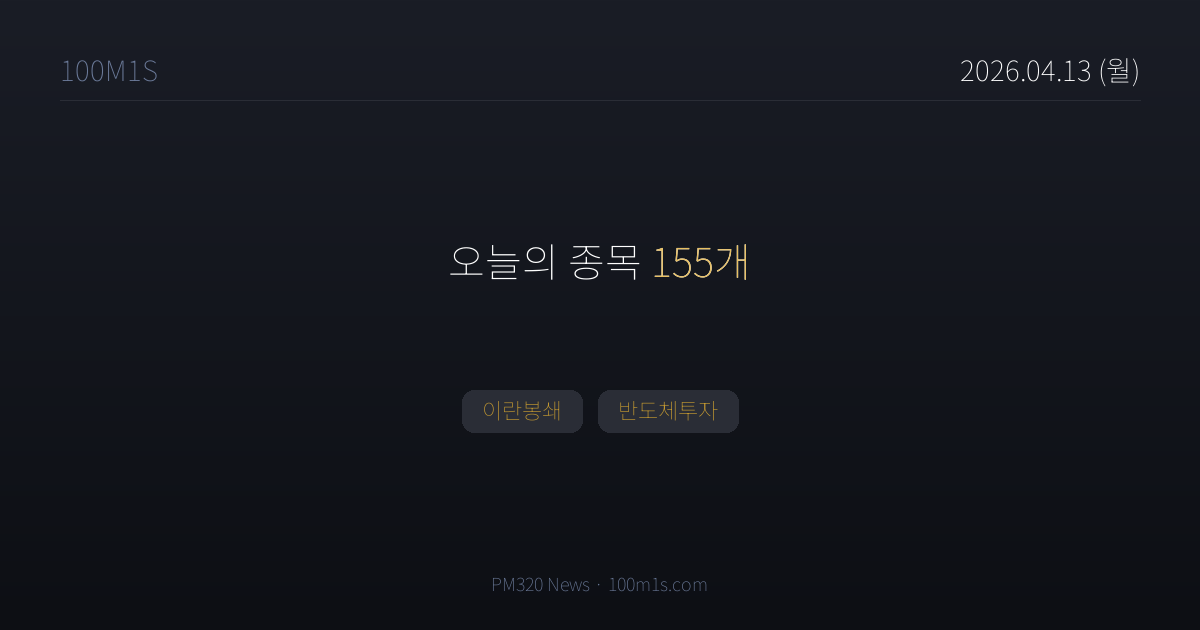
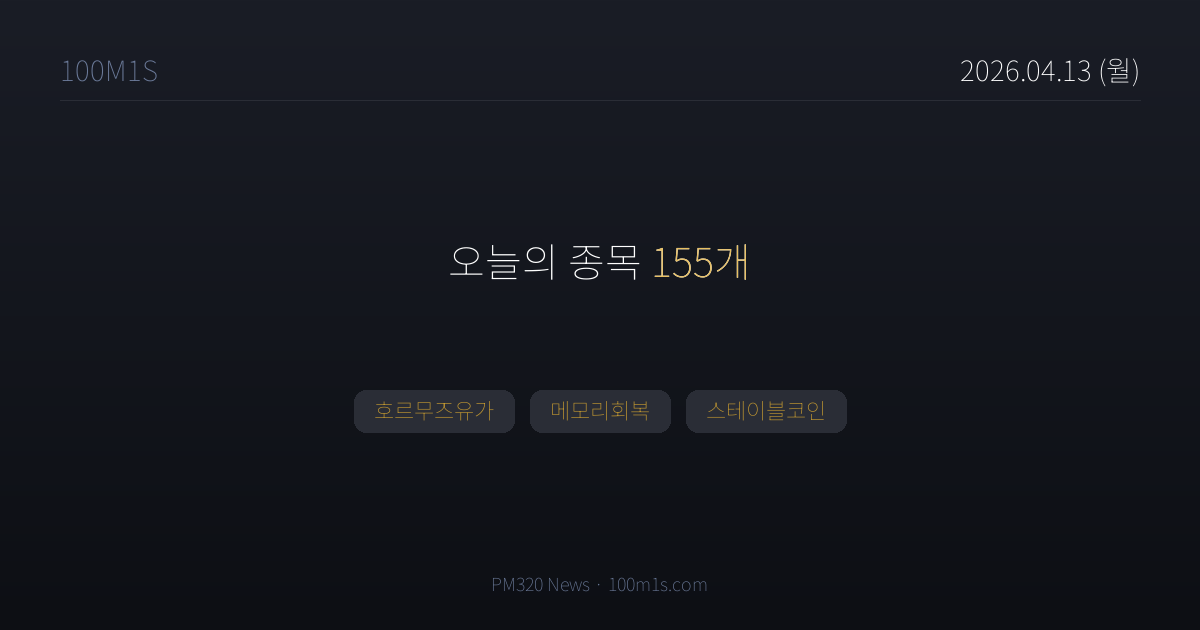
chore(news): 2026-04-13T16:39 pipeline

Changed region(s): [[0.2775, 0.6032, 0.7092, 0.6937]]

diff --git a/news/2026-04-13.html b/news/2026-04-13.html
@@ -4,7 +4,7 @@
 <meta charset="UTF-8">
 <title>4월 13일 (월) 뉴스 — 100M1S</title>
 <meta property="og:title" content="4월 13일 (월) · 종목 155개">
-<meta property="og:description" content="이란봉쇄, 반도체투자">
+<meta property="og:description" content="호르무즈유가, 메모리회복, 스테이블코인">
 <meta property="og:image" content="https://100m1s.com/og/2026-04-13.png">
 <meta property="og:image:width" content="1200">
 <meta property="og:image:height" content="630">
